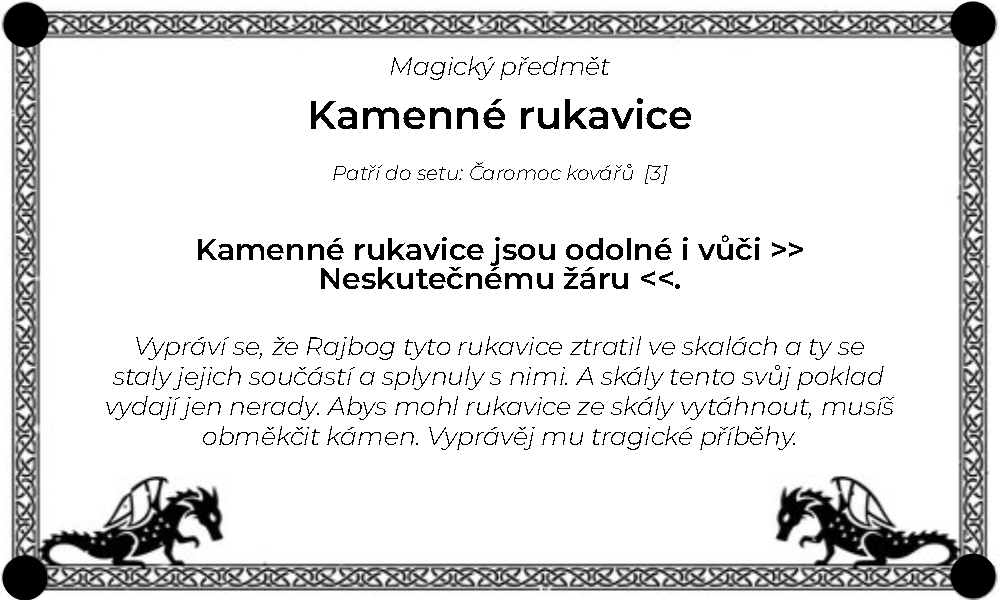
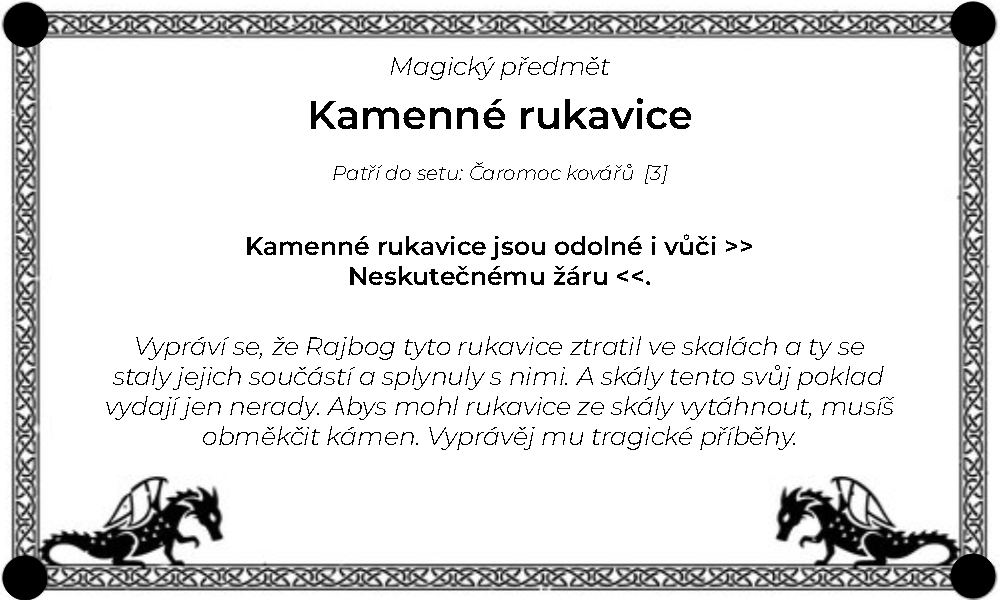
fonts into dicts

Changed region(s): [[0.186, 0.39, 0.806, 0.48]]

diff --git a/card_maker.py b/card_maker.py
@@ -31,33 +31,19 @@ class Card:
         montserrat_path = os.path.join('fonts', 'montserrat.ttf')
         montserrat_italic_path = os.path.join('fonts', 'montserrat_italic.ttf')
 
-        self.font_title = ImageFont.truetype(montserrat_path, 40, encoding="unic")
-        self.font_title.get_variation_names()
-        self.font_title.set_variation_by_name('Bold')
+        text_sizes = {'title': 40, 'large': 30, 'normal': 25, 'small': 20}
+        self.fonts_bold = {}
+        self.fonts_italic = {}
 
-        self.font_bold_large = ImageFont.truetype(montserrat_path, 30, encoding="unic")
-        self.font_bold_large.get_variation_names()
-        self.font_bold_large.set_variation_by_name('Bold')
+        for key, value in text_sizes.items():
+            self.fonts_bold[key] = ImageFont.truetype(montserrat_path, value, encoding="unic")
+            self.fonts_bold[key].get_variation_names()
+            self.fonts_bold[key].set_variation_by_name('Bold')
 
-        self.font_bold = ImageFont.truetype(montserrat_path, 25, encoding="unic")
-        self.font_bold.get_variation_names()
-        self.font_bold.set_variation_by_name('Bold')
+            self.fonts_italic[key] = ImageFont.truetype(montserrat_italic_path, value, encoding="unic")
+            self.fonts_italic[key].get_variation_names()
+            self.fonts_italic[key].set_variation_by_name('Italic')
 
-        self.font_bold_small = ImageFont.truetype(montserrat_path, 20, encoding="unic")
-        self.font_bold_small.get_variation_names()
-        self.font_bold_small.set_variation_by_name('Bold')
-
-        self.font_italic_large = ImageFont.truetype(montserrat_italic_path, 30, encoding="unic")
-        self.font_italic_large.get_variation_names()
-        self.font_italic_large.set_variation_by_name('Italic')
-
-        self.font_italic = ImageFont.truetype(montserrat_italic_path, 25, encoding="unic")
-        self.font_italic.get_variation_names()
-        self.font_italic.set_variation_by_name('Italic')
-
-        self.font_italic_small = ImageFont.truetype(montserrat_italic_path, 20, encoding="unic")
-        self.font_italic_small.get_variation_names()
-        self.font_italic_small.set_variation_by_name('Italic')
 
     def add_title(self, title: str) -> None:
         """write title into card object
@@ -71,11 +57,11 @@ class Card:
         if self.title:
             raise TitleAlreadySetExeption()
         
-        text_width, _ = self.draw.textsize(title, font=self.font_title)
+        text_width, _ = self.draw.textsize(title, font=self.fonts_bold['title'])
         x_position = int(self.image_width-text_width)/2
         self.draw.text((x_position, self.y_position),
                         title, fill =(0, 0, 0),
-                        font=self.font_title)
+                        font=self.fonts_bold['title'])
         
         self.y_position += self.blank_line_height
         
@@ -95,30 +81,23 @@ class Card:
         Returns:
             ImageFont: chosen font
         """
+        if style == 'bold':
+            font_dict = self.fonts_bold
+        elif style == 'italic':
+            font_dict = self.fonts_italic
+        else:
+            raise UnknownFontStyleExeption()
+        
         if len(text) > int(150*self.ratio) or size == 'small':
             characters = int(50*self.ratio)
-            if style == 'bold':
-                font = self.font_bold_small
-            elif style == 'italic':
-                font = self.font_italic_small
-            else:
-                raise UnknownFontStyleExeption()
+            font = font_dict['small']
         elif len(text) > int(100*self.ratio) or size == 'normal':
             characters = int(40*self.ratio)
-            if style == 'bold':
-                font = self.font_bold
-            elif style == 'italic':
-                font = self.font_italic
-            else:
-                raise UnknownFontStyleExeption()
+            font = font_dict['normal']
         else:
             characters = int(30*self.ratio)
-            if style == 'bold':
-                font = self.font_bold_large
-            elif style == 'italic':
-                font = self.font_italic_large
-            else:
-                raise UnknownFontStyleExeption()
+            font = font_dict['normal']
+
             
         return font, characters
 
@@ -182,7 +161,7 @@ class UnknownCardTypeException(Exception):
     "Raised when used other keyword then 'maze-cards' or 'magical-items'."
     pass
 
-def parse_path() -> Tuple(str):
+def parse_path() -> Tuple[str]:
     """read path to file argument
 
     Returns:
